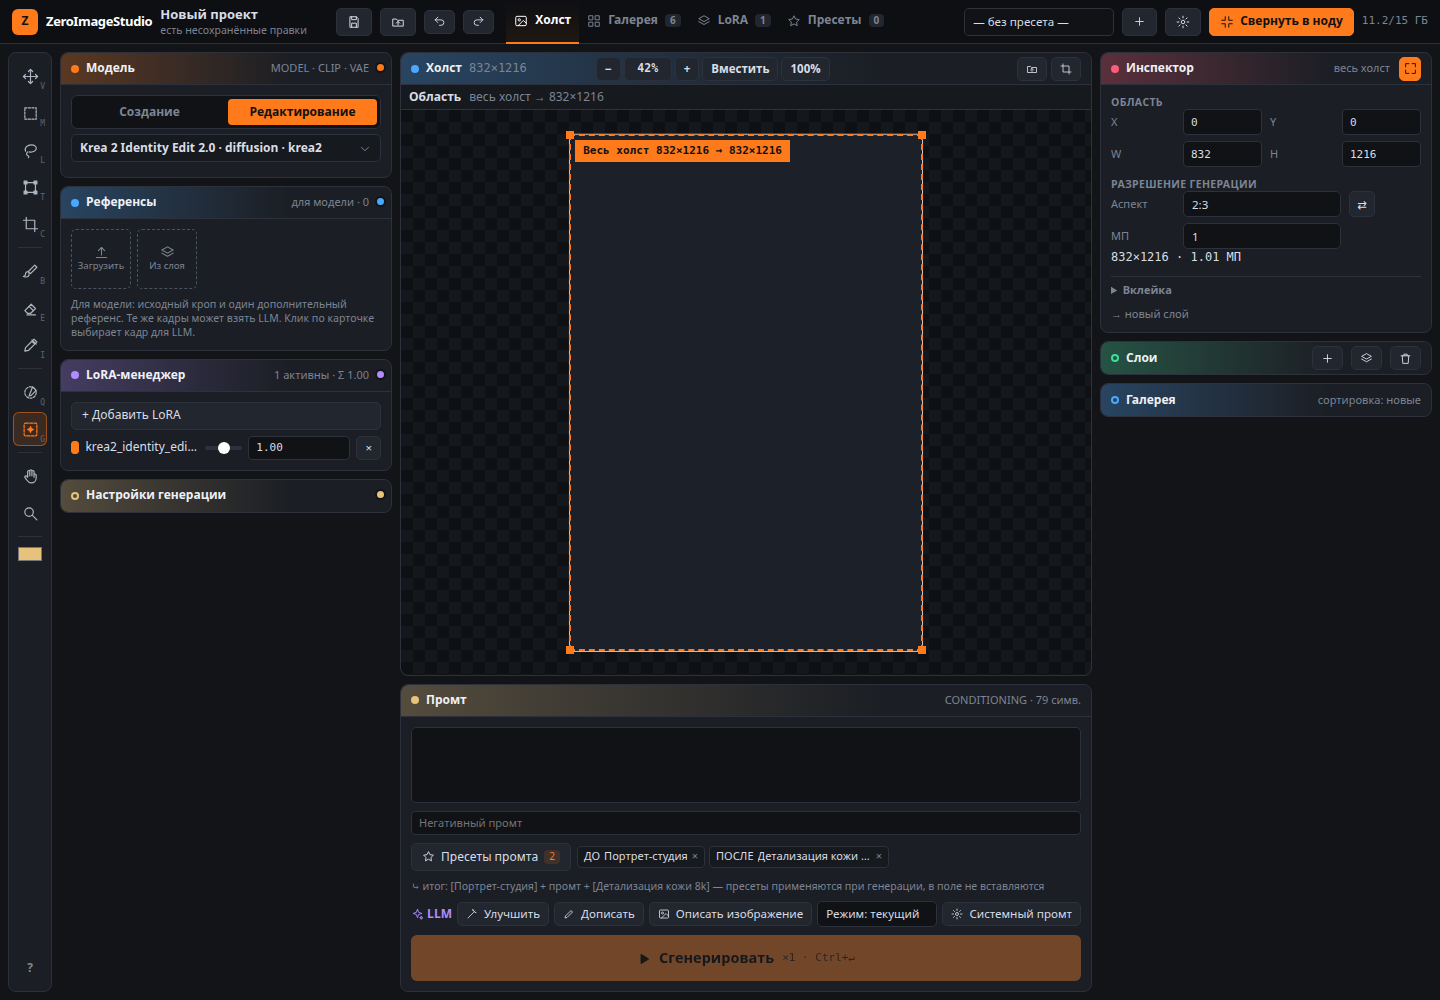
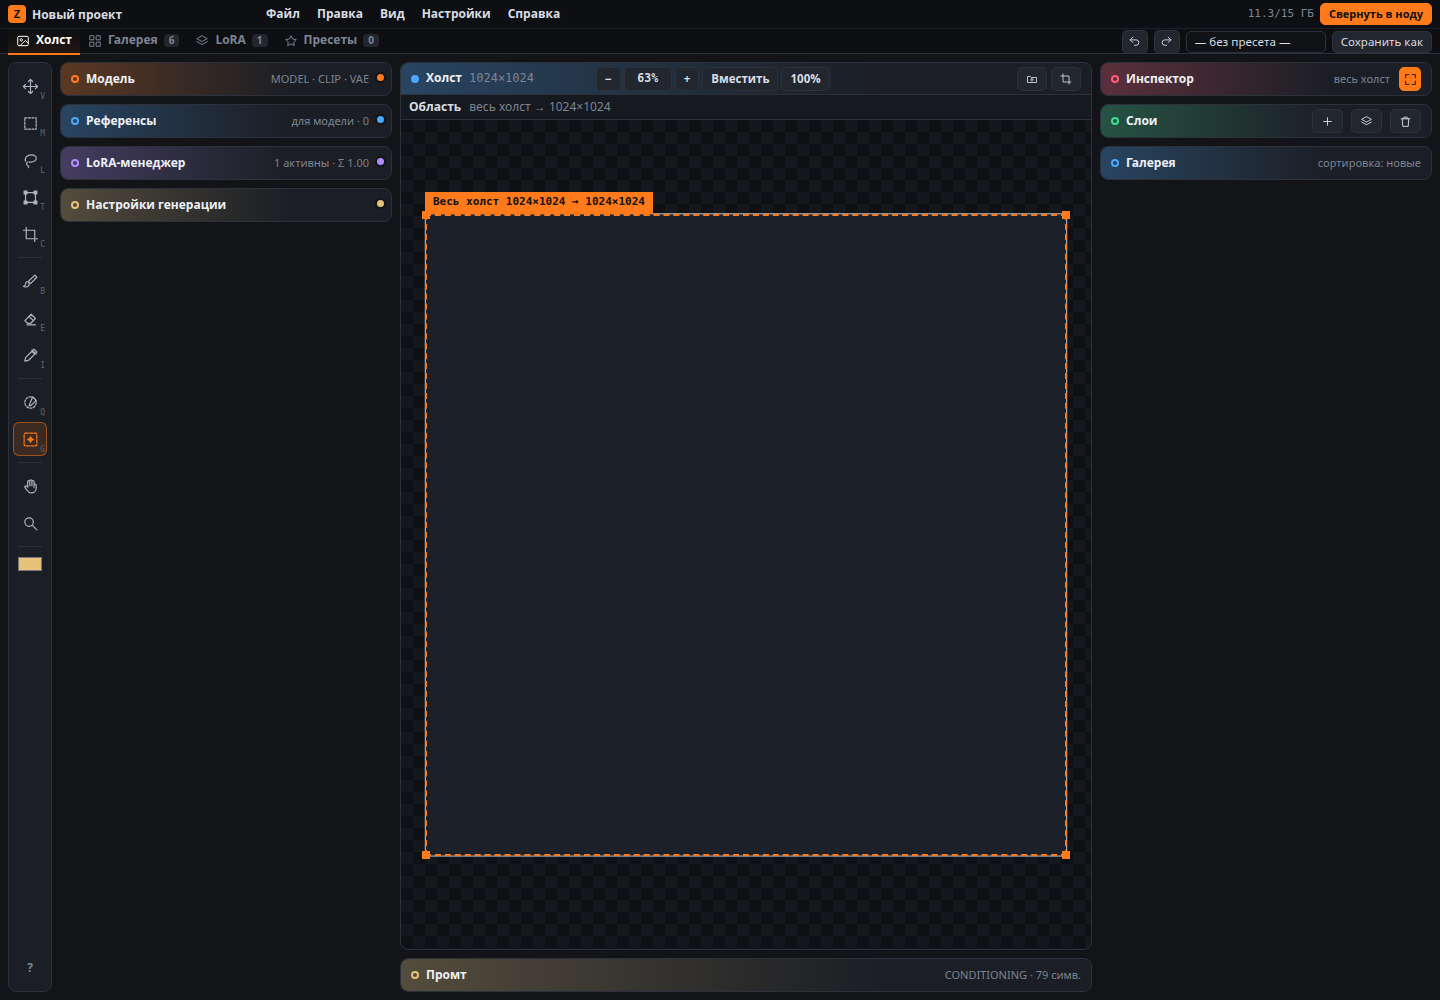
Keep a collapsed panel to its header and darken every scrollbar.
A closed panel was still painting the reference slots in a strip under the header. The body and its fixed-size children are now display:none with no height, padding, or border. Scrollbars are 8px, with a transparent track, a dark thumb that lightens on hover, and the orange accent while dragging.

diff --git a/web/zeroimagestudio.css b/web/zeroimagestudio.css
@@ -1,9 +1,33 @@
 * { box-sizing: border-box; margin: 0; padding: 0; }
 [hidden] { display: none !important; }
 :root {
+  color-scheme: dark;
   --bg: #121418; --p: #1b1e24; --p2: #22262e; --ln: #2c313b; --tx: #d9dde5; --mu: #7d8594;
   --ac: #ff7a1a; --ac2: rgba(255, 122, 26, .14); --bl: #4aa8ff; --gr: #3ddc97; --vi: #b18cff;
+  --sb: #3a404c; --sb-hover: #5c6574;
 }
+html, body { color-scheme: dark; }
+@supports (-moz-appearance: none) {
+  html, body, * {
+    scrollbar-width: thin;
+    scrollbar-color: var(--sb) transparent;
+  }
+}
+*::-webkit-scrollbar { width: 8px; height: 8px; background: transparent; }
+*::-webkit-scrollbar-track,
+*::-webkit-scrollbar-track-piece { background: transparent; }
+*::-webkit-scrollbar-thumb { background: var(--sb); border-radius: 8px; }
+*::-webkit-scrollbar-thumb:hover { background: var(--sb-hover); }
+*::-webkit-scrollbar-thumb:active { background: var(--ac); }
+*::-webkit-scrollbar-button,
+*::-webkit-scrollbar-button:single-button,
+*::-webkit-scrollbar-button:vertical:decrement,
+*::-webkit-scrollbar-button:vertical:increment,
+*::-webkit-scrollbar-button:horizontal:decrement,
+*::-webkit-scrollbar-button:horizontal:increment {
+  display: none; width: 0; height: 0; background: transparent;
+}
+*::-webkit-scrollbar-corner { background: transparent; }
 html, body { height: 100%; }
 body {
   min-width: 1100px;
@@ -79,9 +103,30 @@ select.dd { appearance: none; min-width: 0; max-width: 100%; }
 .node:has(> .sock.l) > .nh { padding-left: 22px; }
 .node:has(> .sock.r) > .nh { padding-right: 22px; }
 .node.collapsed {
-  flex: 0 0 auto !important; height: auto; min-height: 0; overflow: hidden;
+  flex: 0 0 auto !important;
+  height: auto !important;
+  min-height: 0 !important;
+  max-height: none !important;
+  padding: 0 !important;
+  overflow: hidden !important;
 }
-.node.collapsed > :not(.nh):not(.sock) { display: none !important; }
+.node.collapsed > :not(.nh):not(.sock),
+.node.collapsed > :not(.nh):not(.sock) * {
+  display: none !important;
+  height: 0 !important;
+  min-height: 0 !important;
+  max-height: 0 !important;
+  padding: 0 !important;
+  margin: 0 !important;
+  border: 0 !important;
+  outline: none !important;
+  overflow: hidden !important;
+  visibility: hidden !important;
+  flex: 0 0 0 !important;
+}
+.left .node.collapsed .nb,
+.right .node.collapsed .nb,
+.center .node.collapsed .nb { overflow: hidden !important; }
 .node.collapsed > .nh { border-bottom: 0; border-radius: 7px; }
 .node.collapsed > .nh .d { background: transparent; box-shadow: inset 0 0 0 2px var(--c); }
 .node.dragging { opacity: .45; }

diff --git a/README.md b/README.md
@@ -152,7 +152,13 @@ git clone https://github.com/zeroleloushe/ZeroImageStudio.git
 - Пресеты промта в полном виде открываются кнопкой **Пресеты промта**: поиск, категории, включение, ДО/ПОСЛЕ, порядок. Они хранятся в `user/zeroimagestudio/prompt_presets.json`.
 - В режиме **Создание** кадр на весь холст заменяет изображение (один слой «Холст»). Предыдущий результат остаётся в галерее и в отмене. Область и режим **Редактирование** по-прежнему кладут каждый результат на новый слой, исходник не трогается.
 - Инспектор называется просто «Инспектор». Цветная точка в шапке и есть сворачивание. Справа — контекст («весь холст», «область» или имя слоя) и кнопка «Весь холст». Сетка: X/Y и W/H, затем аспект со сменой ориентации и мегапиксели одной ширины, одна строка результата. Число мегапикселей вводится только в пункте «Своё». Вклейка (Poisson, шов, контекст, цветовой подгон) свёрнута. Внизу одна строка: «Весь холст → новая картинка» или «→ новый слой».
-- Боковые панели и промт сворачиваются цветной точкой в шапке (или двойным щелчком по заголовку) до одной полосы. Их можно перетаскивать за шапку между левой и правой колонками и вокруг промта. Холст остаётся по центру. Меню **Вид** прячет панель целиком. Раскладка пишется в браузер и в `settings.json`. «Сбросить раскладку» — в меню **Вид** и в настройках. «Открыть в графе ComfyUI» — в меню **Настройки**. Там же раздел **Модели и загрузки**: рекомендованные файлы Krea 2, обеих LoRA Krea 2 Edit V2 и Qwen Image 2.1, со статусом и ссылкой. Он ничего не требует.
+- Боковые панели и промт сворачиваются цветной точкой в шапке (или двойным щелчком по заголовку) до одной полосы: под шапкой не остаётся тела, отступов и слотов. Их можно перетаскивать за шапку между левой и правой колонками и вокруг промта. Холст остаётся по центру. Меню **Вид** прячет панель целиком. Раскладка пишется в браузер и в `settings.json`. «Сбросить раскладку» — в меню **Вид** и в настройках. «Открыть в графе ComfyUI» — в меню **Настройки**. Там же раздел **Модели и загрузки**: рекомендованные файлы Krea 2, обеих LoRA Krea 2 Edit V2 и Qwen Image 2.1, со статусом и ссылкой. Он ничего не требует.
+
+![Все панели свёрнуты](docs/ux-collapsed.png)
+
+Полосы прокрутки колонок, панелей, меню, диалогов и полей — тонкие, с прозрачной дорожкой и тёмно-серым бегунком. Пока бегунок тянут, он оранжевый.
+
+![Прокрутка левой колонки](docs/ux-scrollbar.png)
 
 ![Модели и загрузки](docs/settings-models.png)
 - Верхняя панель в два ряда: меню и индикатор GPU/VRAM, ниже вкладки и пресет. Подробности GPU — во всплывающей подсказке. **Свернуть в ноду** остаётся в первом ряду.
